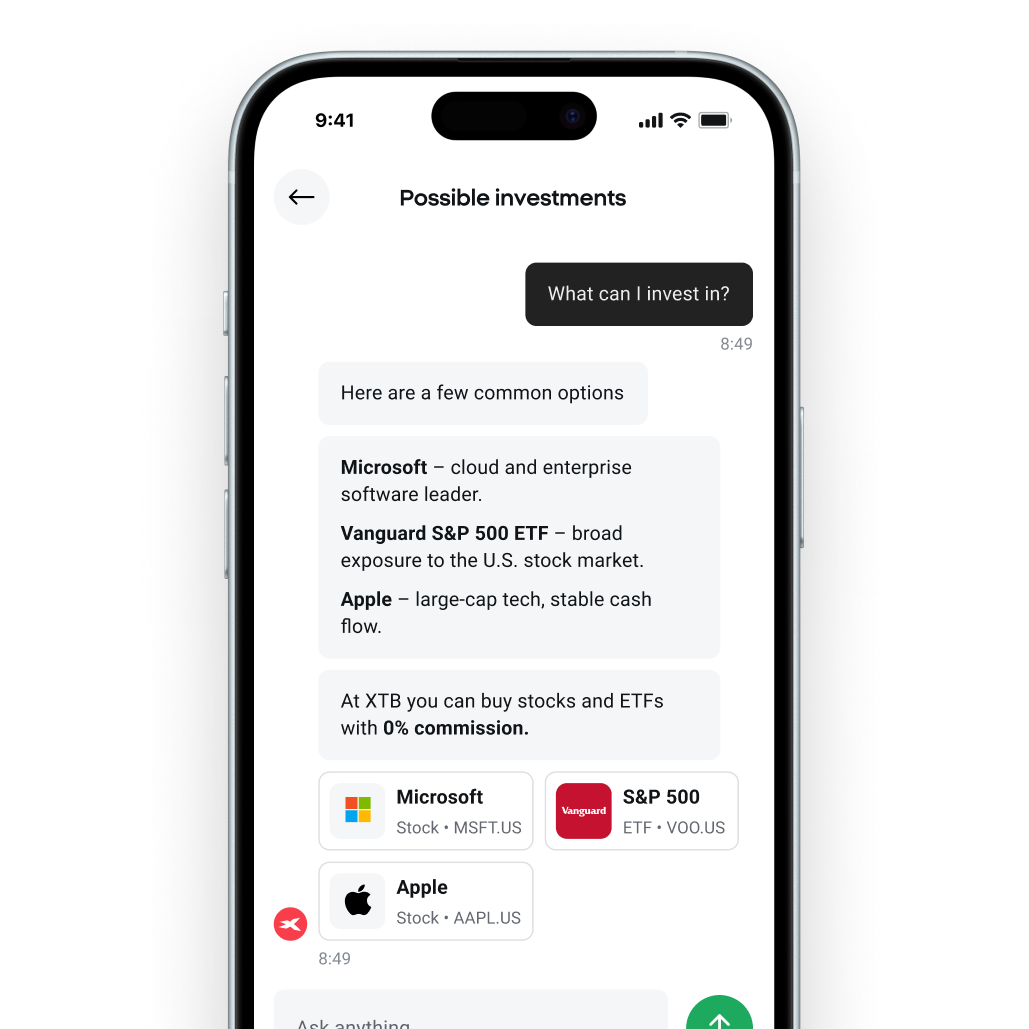
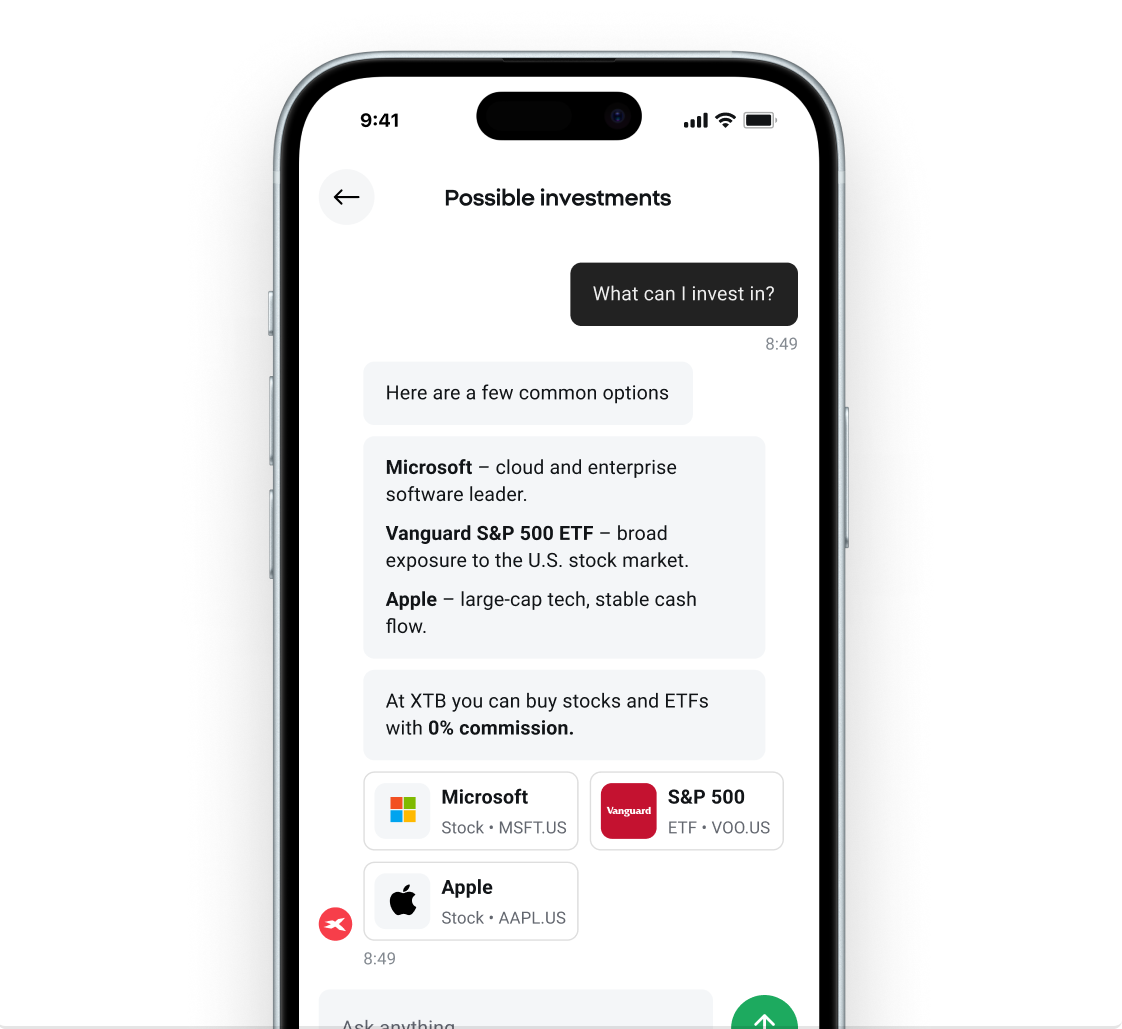
Use the new mobile hero images on the projects page and keep the updated mobile asset set tracked.
Made-with: Cursor

diff --git a/projects.html b/projects.html
@@ -63,7 +63,7 @@
                             <div class="grid-item is-full">
                                 <div class="visual-container">
                                     <picture>
-                                        <source media="(max-width: 900px)" srcset="assets/Xtb/Mobile/Education.png">
+                                        <source media="(max-width: 900px)" srcset="assets/Xtb/Mobile/Education-new.png">
                                         <img src="assets/Xtb/Education.png" alt="Education Platform Redesign"
                                             class="visual-image img-education">
                                     </picture>
@@ -220,7 +220,7 @@
                             <div class="grid-item is-full">
                                 <div class="visual-container">
                                     <picture>
-                                        <source media="(max-width: 900px)" srcset="assets/Xtb/Mobile/AIHelp.png">
+                                        <source media="(max-width: 900px)" srcset="assets/Xtb/Mobile/AIHelp-new.png">
                                         <img src="assets/Xtb/AIHelp.png" alt="AI Help Interface"
                                             class="visual-image img-aihelp">
                                     </picture>
@@ -322,7 +322,7 @@
                             <div class="grid-item is-full">
                                 <div class="visual-container">
                                     <picture>
-                                        <source media="(max-width: 900px)" srcset="assets/Xtb/Mobile/Calculator.png">
+                                        <source media="(max-width: 900px)" srcset="assets/Xtb/Mobile/Calculator-new.png">
                                         <img src="assets/Xtb/Calculator.png" alt="Retirement Calculator"
                                             class="visual-image img-calculator">
                                     </picture>
@@ -392,7 +392,7 @@
                             <div class="grid-item is-full">
                                 <div class="visual-container">
                                     <picture>
-                                        <source media="(max-width: 900px)" srcset="assets/Xtb/Mobile/Instrument specification.png">
+                                        <source media="(max-width: 900px)" srcset="assets/Xtb/Mobile/Instrument specification-new.png">
                                         <img src="assets/Xtb/Instrument specification.png" alt="Specification UI"
                                             class="visual-image img-spec">
                                     </picture>
